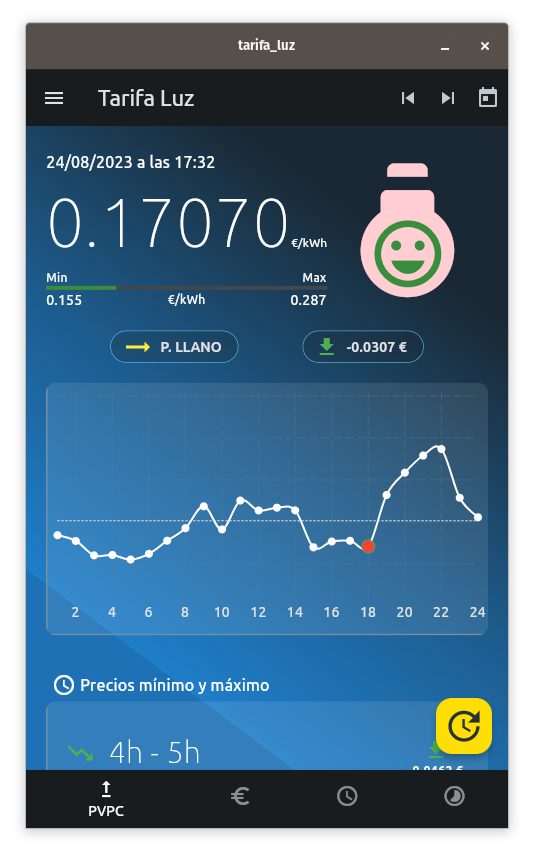
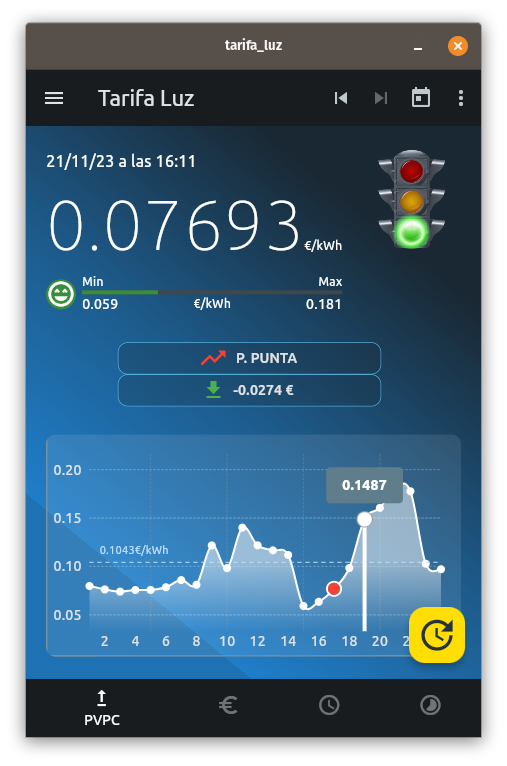
graphics and metadata screenshots

diff --git a/lib/graphics/grafico_home.dart b/lib/graphics/grafico_home.dart
@@ -8,19 +8,33 @@ class GraficoHome extends StatelessWidget {
   final BoxData boxData;
   const GraficoHome({required this.boxData, super.key});
 
+  double cuatroDec(double precio) {
+    return double.parse((precio).toStringAsFixed(4));
+  }
+
+  List<HorizontalLine> getExtraLinesY() {
+    List<HorizontalLine> horizontalLines = [];
+    for (double i = 0; i < 0.50; i += 0.05) {
+      horizontalLines.add(HorizontalLine(
+        y: i,
+        strokeWidth: 1,
+        dashArray: [2, 2],
+        color: Colors.white30,
+      ));
+    }
+    return horizontalLines;
+  }
+
   @override
   Widget build(BuildContext context) {
     final double altoScreen = MediaQuery.of(context).size.height;
     final now = DateTime.now().toLocal();
 
-    double cuatroDec(double precio) {
-      return double.parse((precio).toStringAsFixed(4));
-    }
-
     return ClipPath(
       clipper: StyleApp.kBorderClipper,
       child: Container(
-        padding: const EdgeInsets.all(20),
+        //padding: const EdgeInsets.all(20),
+        padding: const EdgeInsets.fromLTRB(2, 20, 20, 2),
         width: double.infinity,
         height: altoScreen / 3,
         decoration: StyleApp.kBoxDeco,
@@ -47,18 +61,52 @@ class GraficoHome extends StatelessWidget {
               rightTitles: const AxisTitles(
                 sideTitles: SideTitles(showTitles: false),
               ),
-              leftTitles: const AxisTitles(
-                sideTitles: SideTitles(showTitles: false),
+              leftTitles: AxisTitles(
+                sideTitles: SideTitles(
+                  showTitles: true,
+                  reservedSize: 40,
+                  interval: 0.05,
+                  getTitlesWidget: (value, meta) {
+                    return SideTitleWidget(
+                      axisSide: meta.axisSide,
+                      //space: 4,
+                      child: meta.formattedValue.endsWith('5') ||
+                              meta.formattedValue.endsWith('0')
+                          ? Text(meta.formattedValue)
+                          : const SizedBox(width: 0, height: 0),
+                    );
+                  },
+                ),
               ),
             ),
+            gridData: FlGridData(
+              show: true,
+              drawHorizontalLine: false,
+              drawVerticalLine: true,
+              getDrawingVerticalLine: (value) {
+                return FlLine(
+                  color: Colors.grey.withOpacity(0.4),
+                  strokeWidth: 0.8,
+                  dashArray: [2, 2],
+                );
+              },
+            ),
             extraLinesData: ExtraLinesData(
+              //extraLinesOnTop: true,
               horizontalLines: [
                 HorizontalLine(
                   y: boxData.precioMedio,
                   strokeWidth: 1,
-                  dashArray: [2, 2],
-                  color: Theme.of(context).colorScheme.onBackground,
-                )
+                  dashArray: [4, 4],
+                  color: Colors.blue[100],
+                  label: HorizontalLineLabel(
+                    show: true,
+                    padding: const EdgeInsets.only(left: 10, bottom: 4),
+                    labelResolver: (_) =>
+                        '${cuatroDec(boxData.precioMedio)}€/kWh',
+                  ),
+                ),
+                ...getExtraLinesY(),
               ],
             ),
             minY: boxData.precioMin - (boxData.precioMedio / 4),
@@ -68,8 +116,12 @@ class GraficoHome extends StatelessWidget {
                 spots: boxData.preciosHora
                     .asMap()
                     .entries
-                    .map((precio) => FlSpot(
-                        precio.key.toDouble() + 1, cuatroDec(precio.value)))
+                    .map(
+                      (precio) => FlSpot(
+                        precio.key.toDouble() + 1,
+                        cuatroDec(precio.value),
+                      ),
+                    )
                     .toList(),
                 isCurved: true,
                 barWidth: 2,
@@ -92,7 +144,16 @@ class GraficoHome extends StatelessWidget {
                   },
                 ),
                 belowBarData: BarAreaData(
-                  show: false,
+                  show: true,
+                  gradient: LinearGradient(
+                    colors: [
+                      Colors.white.withOpacity(0.5),
+                      Colors.white.withOpacity(0),
+                    ],
+                    stops: const [0.5, 1.0],
+                    begin: Alignment.topCenter,
+                    end: Alignment.bottomCenter,
+                  ),
                 ),
               ),
             ],

diff --git a/lib/graphics/grafico_precios.dart b/lib/graphics/grafico_precios.dart
@@ -29,6 +29,19 @@ class _GraficoPreciosState extends State<GraficoPrecios>
     return double.parse((precio).toStringAsFixed(4));
   }
 
+  List<HorizontalLine> getExtraLinesY() {
+    List<HorizontalLine> horizontalLines = [];
+    for (double i = 0; i < 0.50; i += 0.05) {
+      horizontalLines.add(HorizontalLine(
+        y: i,
+        strokeWidth: 1,
+        dashArray: [2, 2],
+        color: Colors.white30,
+      ));
+    }
+    return horizontalLines;
+  }
+
   @override
   Widget build(BuildContext context) {
     return Scaffold(
@@ -50,6 +63,7 @@ class _GraficoPreciosState extends State<GraficoPrecios>
               bottomTitles: AxisTitles(
                 sideTitles: SideTitles(
                   showTitles: true,
+                  //interval: 2,
                   getTitlesWidget: (value, meta) {
                     if (int.parse(meta.formattedValue).isEven) {
                       if (int.parse(meta.formattedValue) == now.hour + 1) {
@@ -80,8 +94,22 @@ class _GraficoPreciosState extends State<GraficoPrecios>
               rightTitles: const AxisTitles(
                 sideTitles: SideTitles(showTitles: false),
               ),
-              leftTitles: const AxisTitles(
-                sideTitles: SideTitles(showTitles: false),
+              leftTitles: AxisTitles(
+                sideTitles: SideTitles(
+                  showTitles: true,
+                  reservedSize: 40,
+                  interval: 0.05,
+                  getTitlesWidget: (value, meta) {
+                    return SideTitleWidget(
+                      axisSide: meta.axisSide,
+                      //space: 4,
+                      child: meta.formattedValue.endsWith('5') ||
+                              meta.formattedValue.endsWith('0')
+                          ? Text(meta.formattedValue)
+                          : const SizedBox(width: 0, height: 0),
+                    );
+                  },
+                ),
               ),
             ),
             extraLinesData: ExtraLinesData(
@@ -89,20 +117,21 @@ class _GraficoPreciosState extends State<GraficoPrecios>
                 HorizontalLine(
                   y: widget.boxData.precioMedio,
                   strokeWidth: 1,
-                  color: Theme.of(context).colorScheme.onBackground,
+                  dashArray: [4, 4],
+                  color: Colors.blue[100],
                   label: HorizontalLineLabel(
                     show: true,
-                    style: TextStyle(
-                      fontSize: 20,
-                      color: Theme.of(context).colorScheme.onBackground,
-                    ),
+                    padding: const EdgeInsets.only(left: 10, bottom: 4),
                     alignment: Alignment.topLeft,
                     labelResolver: (_) =>
                         'Media: ${cuatroDec(widget.boxData.precioMedio)}',
                   ),
-                )
+                ),
+                ...getExtraLinesY(),
               ],
             ),
+            minY: widget.boxData.precioMin - (widget.boxData.precioMedio / 4),
+            maxY: widget.boxData.precioMax + (widget.boxData.precioMedio / 3),
             barGroups: precios.asMap().entries.map(
               (precio) {
                 DateTime fechaHour =
@@ -125,7 +154,7 @@ class _GraficoPreciosState extends State<GraficoPrecios>
                         topLeft: Radius.circular(6),
                         topRight: Radius.circular(6),
                       ),
-                    )
+                    ),
                   ],
                 );
               },
